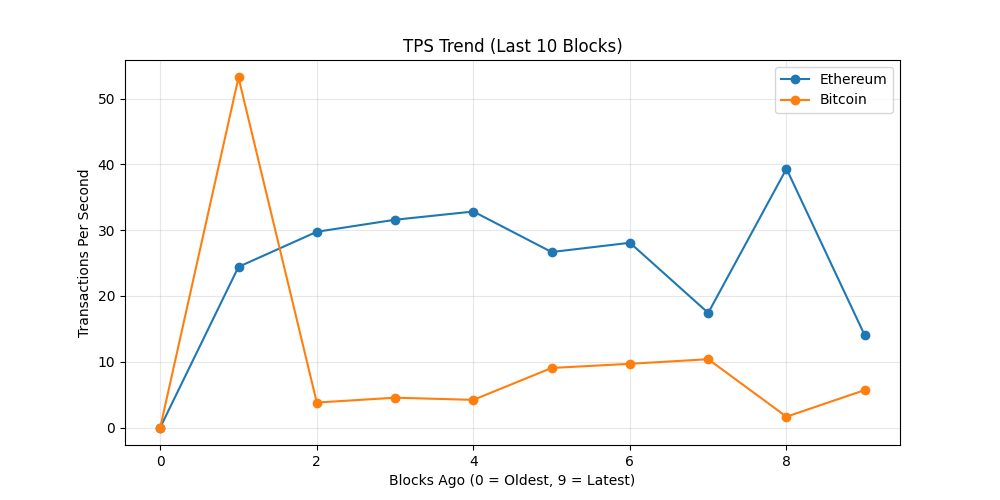
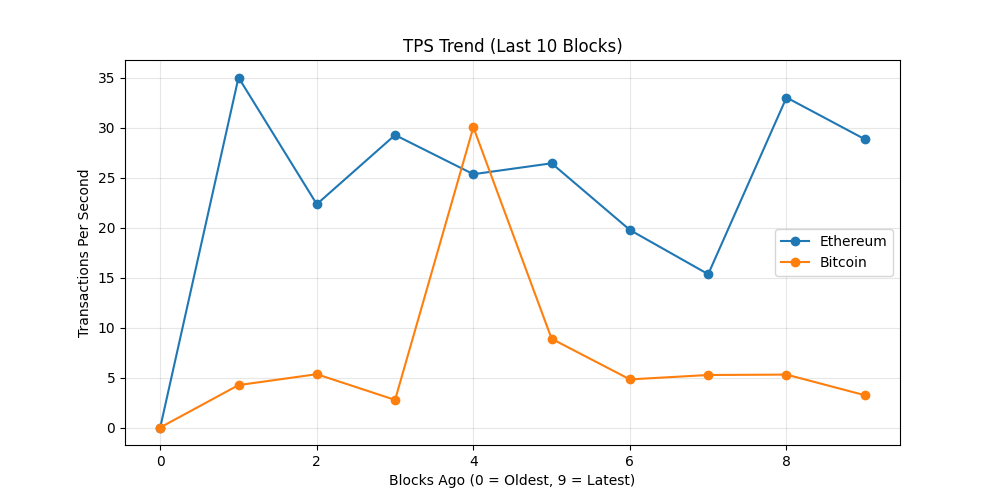
chore: update on-chain dashboard

diff --git a/README.md b/README.md
@@ -19,7 +19,7 @@ The README itself acts as the dashboard and is regenerated automatically on a 6 
 demonstrating a production-style, infrastructure-focused observability workflow rather
 than a traditional UI-driven approach.
 
-_Last updated: 2026-01-08 13:08 UTC_
+_Last updated: 2026-01-08 18:47 UTC_
 
 ## API Usage (GetBlock.io)
 - Calls used: **24**
@@ -27,8 +27,8 @@ _Last updated: 2026-01-08 13:08 UTC_
 ## Network Metrics
 | Chain | Block Height | TX Count | TPS (10 blk avg) | Block Util | Avg Fee |
 |------|-------------|----------|------------------|------------|---------|
-| Ethereum | 24190152 | 168 | 14.0 | 26.16% | 0.1 Gwei |
-| Bitcoin | 931410 | 3811 | 5.69 | 99.8% | N/A |
+| Ethereum | 24191839 | 346 | 28.83 | 99.03% | 0.1 Gwei |
+| Bitcoin | 931451 | 3668 | 3.23 | 99.8% | N/A |
 
 ## Visuals
 ### Transactions Trend
@@ -43,11 +43,11 @@ _Last updated: 2026-01-08 13:08 UTC_
 ## Whale Alerts (latest block)
 - Transaction hashes are truncated for readability.
 - Full hashes are available in `dashboards/metrics.json`
-- Bitcoin | 250.0 BTC | `cedb6357ac7d…`
-- Bitcoin | 300.0 BTC | `18f90ff0513a…`
-- Bitcoin | 150.0 BTC | `92489027ea46…`
-- Bitcoin | 160.0 BTC | `2573e7245831…`
-- Bitcoin | 918.63 BTC | `0cb2ed6823b5…`
+- Bitcoin | 497.13 BTC | `f644bd8b0980…`
+- Bitcoin | 619.37 BTC | `a141cd4ff59d…`
+- Bitcoin | 392.83 BTC | `29f6a9522597…`
+- Bitcoin | 100.01 BTC | `6c75de84ef01…`
+- Bitcoin | 101.09 BTC | `f0319fef5032…`
 
 ## Run locally
 
